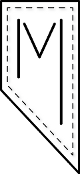
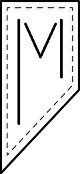
redimenciona imagen y se agrega logotipo prueba

diff --git a/css/main.css b/css/main.css
@@ -290,8 +290,8 @@ textarea {
 .logo {
   position: absolute;
   background: url("../img/m2.png") no-repeat 0 0;
-  width: 120px;
-  height: 261px;
+  width: 80px;
+  height: 174px;
   z-index: 2001;
   top: -25px;
   left: 20px;
